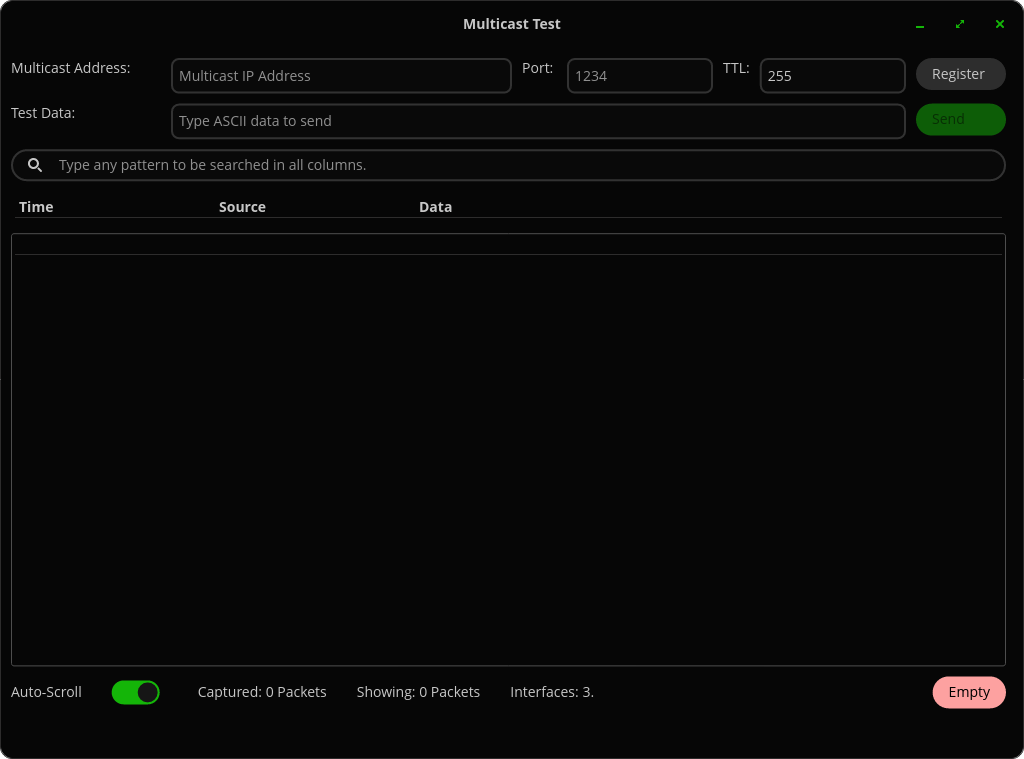
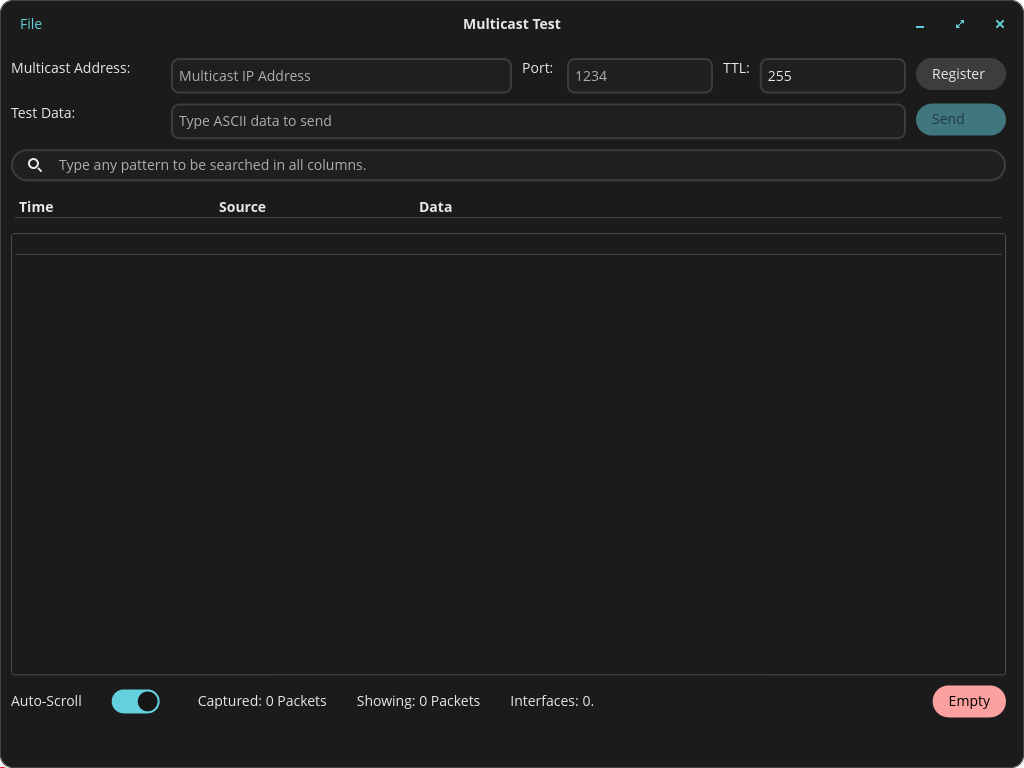
Readme update

diff --git a/README.md b/README.md
@@ -7,7 +7,7 @@ You will also have the ability to send simple test messages to ensure your machi
 ![Start-up Screenshot](/assets/mctest_one.png)
 
 ## Limitations
-This tool is very simple thus it's very limited on the features it provides. It does not replace Wireshark. It does not offer you the ability to capture all packets in the network. It is limited to capturing UDP Multicast packets only. It will not allow you to save a capture or run it for days uninterrupted. 
+This tool is very simple thus it's very limited on the features it provides. It does not replace Wireshark. It does not offer you the ability to capture all packets in the network. It is limited to capturing UDP Multicast packets only. It will not allow you to run it for days uninterrupted. 
 
 The main purpose of this tool is to test the ability to receive and send multicast messages on a given machine. This tool was simply born from the need of said tool while troubleshooting on site. It is meant to be a lightweight replacement for VLC stream testing.
 
@@ -36,3 +36,6 @@ Optionally you can type filtering test in the search box. Press enter to search.
 
 
 ![Capture Screenshot](/assets/mctest_three.png)
+
+### Collect Data for Later Analysis
+Once collected, you can click on the <strong>File</strong> menu and select <strong>Save Data</strong>. This produces a CSV file with the captured message logged as a hex dump. This file can be later loaded using the <strong>File</Strong> > <strong>Load Data </Strong> menu.
